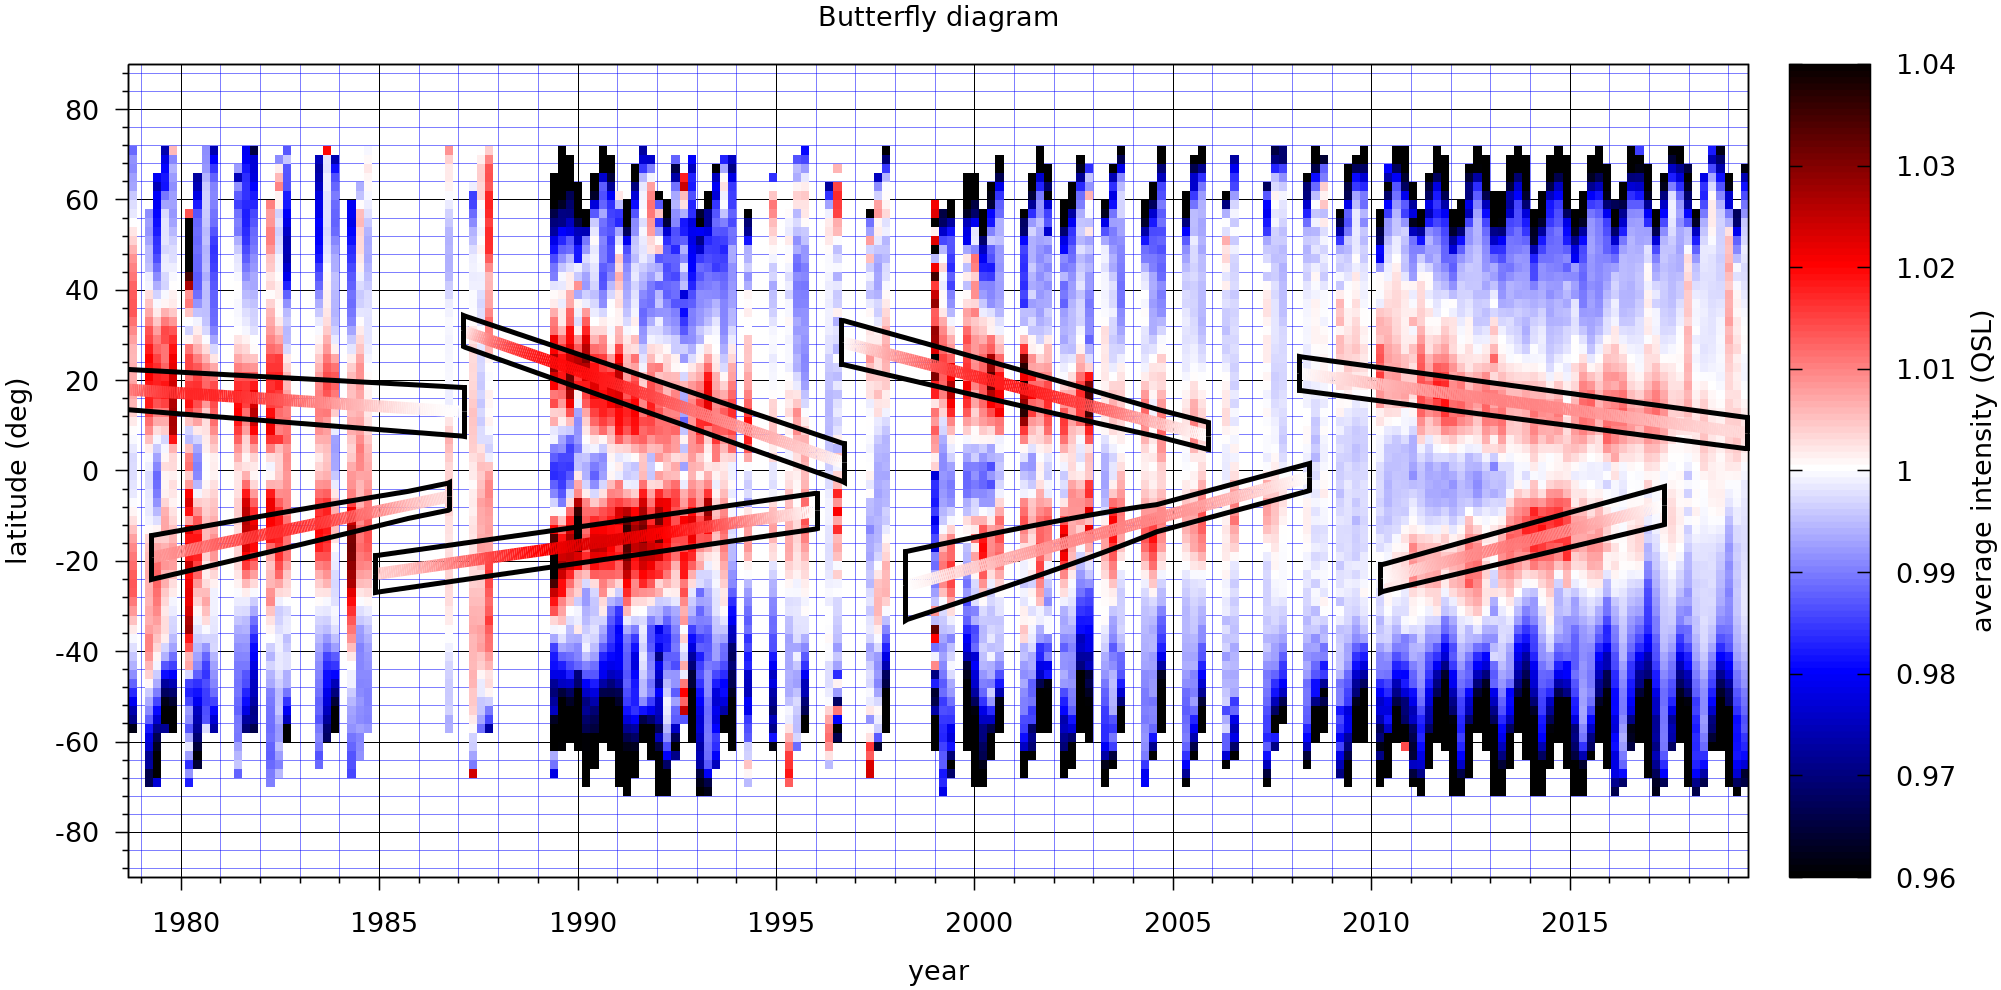
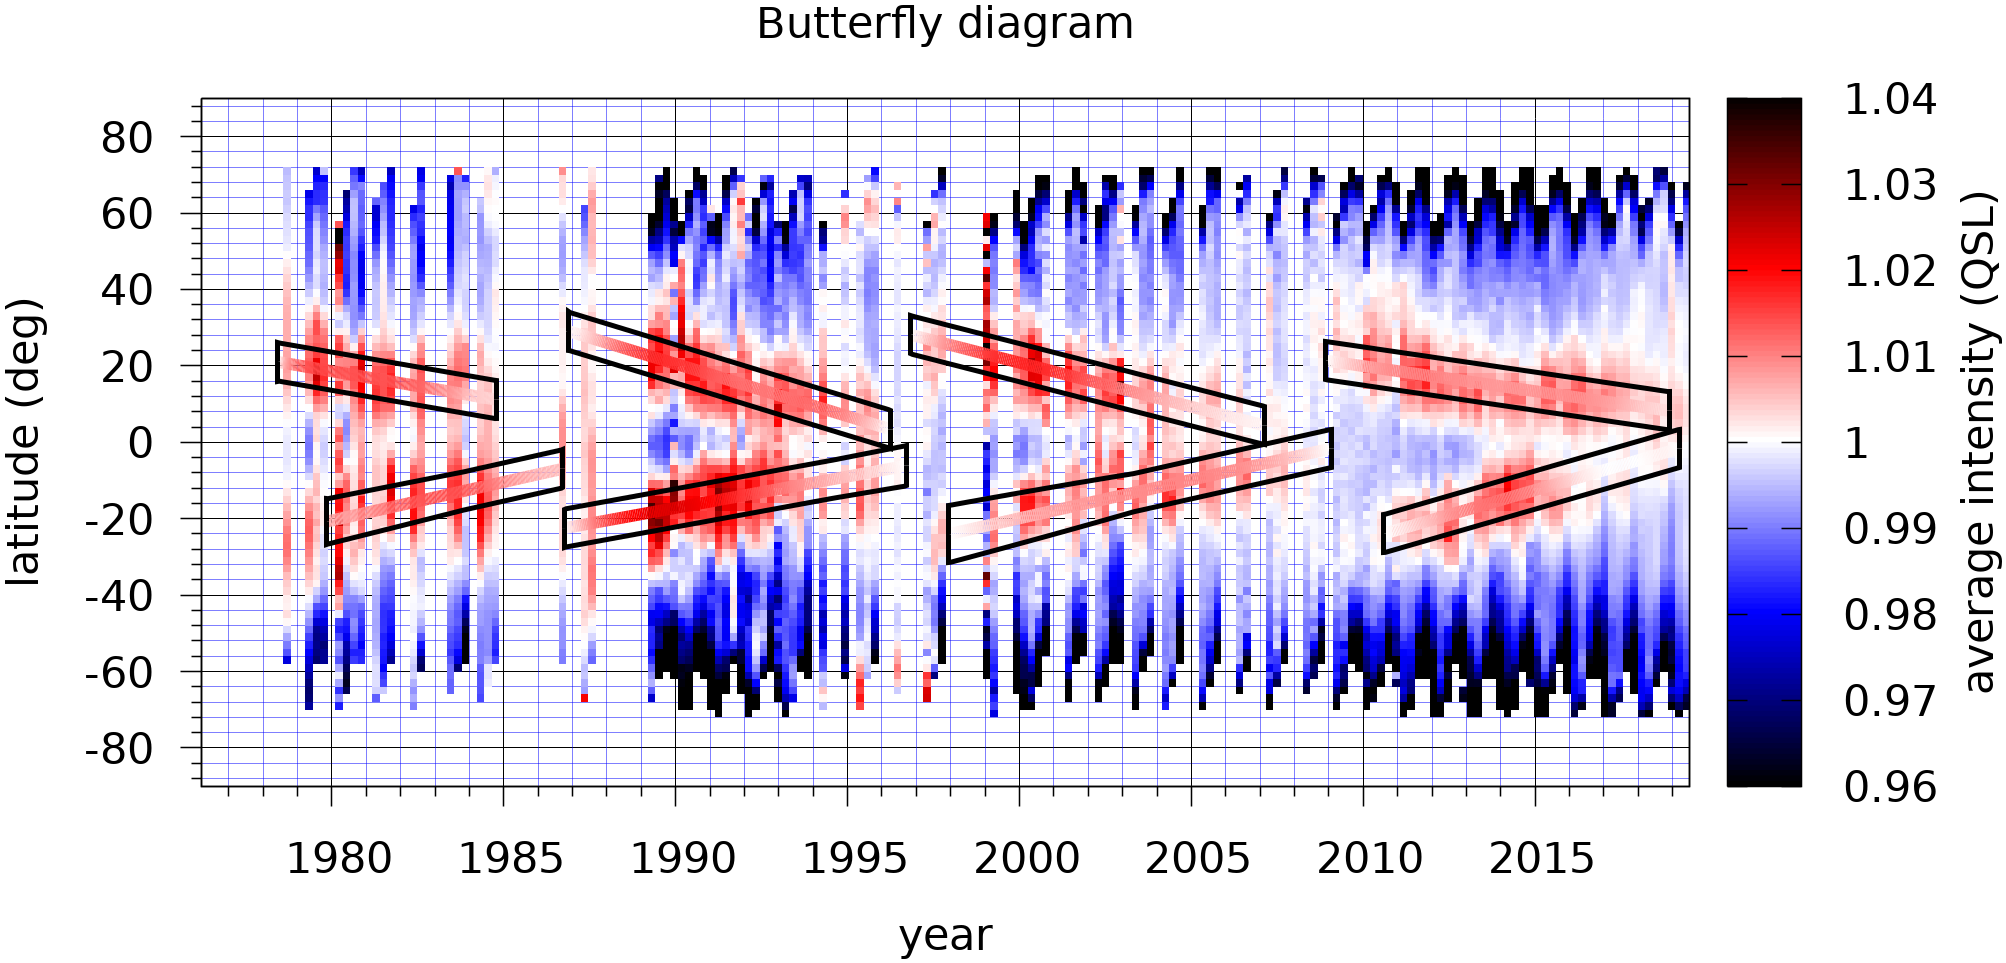
keep consistent

diff --git a/main_P1.tex b/main_P1.tex
@@ -302,7 +302,7 @@
   well-resolved
   data about the 
   %MJK should perhaps be written out, when used for the first time, same for 3D.
-  %FAG: OK done
+  %FAG:OK done
   two-dimensional (2D) 
   evolution of the solar surface magnetic 
   field, but observation of the three-dimensional (3D)
@@ -442,22 +442,22 @@
 
   \begin{figure}
   \centering
-  \includegraphics[trim=0cm 3cm 0cm 1.2cm,clip=True,width=\columnwidth]{nea1311582408.png}
-  \includegraphics[trim=0cm 0cm 0cm 1.2cm,clip=True,width=\columnwidth]{nea1467696874.png}
+  \includegraphics[width=\columnwidth]{nea_box.png}
   \begin{picture}(0,0)(0,0)
-    \put(-130,411){\begin{large}{\sf\bf{(a)}}\end{large}}
-    \put(-130,213){\begin{large}{\sf\bf{(b)}}\end{large}}
+    \put(-130,620){\begin{large}\sf\bf{(a)}\end{large}}
+    \put(-130,417){\begin{large}\sf\bf{(b)}\end{large}}
+    \put(-130,213){\begin{large}\sf\bf{(c)}\end{large}}
   \end{picture}
   \caption{
-    Typical Mets\"ahovi solar observations on $\SI{37}{GHz}$ {\bf(a)}
-    25.07.2011 and {\bf(b)} 05.07.2016.
-    Prior to May 2015 the observation beam scans along the equator, with
-    samples mapped onto a rectangular grid.
-    Since June 2015 a more accurate fit to the beam path was used, scanning 
-    horizontally.
-    For the intensity color map each pixel is mapped to the nearest observed
-    sample.
-    This is an original uncalibrated map.
+    Typical Mets\"ahovi solar observations on $\SI{37}{GHz}$ {\bf(a)} 25.07.2011 and {\bf(b)} 05.07.2016. Prior to May 
+    2015 the observation beam scans along the equator, with samples mapped onto a rectangular grid. Since June 2015 a 
+    more accurate fit to the beam path was used, scanning horizontally. For the intensity color map each pixel is mapped 
+    to the nearest observed sample. This is an original uncalibrated map. {\bf(c)} Closeup of the 05.07.2016 map which 
+    illustrates circle fitting.
+    %target set of points used for fitting the circle of the solar limb. White dots are normal 
+    %observational samples, while the blue dots are the samples used for the fitting. Based on sample intensity, the 
+    %radial distance from the center of disk, for each blue dot, is corrected based on sample intensity. The resulting 
+    %target set is shown with green dots.
     %Maps that originate May on 2015 or earlier have
     %sweeps along the equator. Samples are assumed on a rectan-
     %gular grid. Typical Metsähovi solar observation on 37 GHz.
@@ -545,14 +545,12 @@
   %Each sample observation yields an intensity map with coordinates right 
   Each observation scan yields an intensity map with coordinates right 
   ascension, $\RA$, and declination, $\Dec$.
-  Each scan, denoted $S$ and spanning a couple of minutes, comprises a set of
+  Each scan, denoted $S$ and spanning a couple of minutes, comprises a set of beam-size specimens. For $s_i \in S$:
   %FAG: trying to disembiguate use of 'sample'
-  %beam samples, $s_i \in S$
-  beam-size specimens, $s_i \in S$
   \eqnl{radio_sample}{
   s_i &=& 
-  \left( t_i, \dR_i, \dD_i, u_i \right) %\\ \nonumber
-  %&=& \left( t(s_i), \delta \mathrm{RA}(s_i), \delta \mathrm{dec}(s_i), u(s_i) \right) \text{,}
+  \left( t_i, \dR_i, \dD_i, u_i \right) \\ %\\ \nonumber
+  &=& \left( t(s_i),\delta \mathrm{RA}(s_i), \delta \mathrm{dec}(s_i), u(s_i) \right) \text{,}
   }
   where $t_i=t(s_i)$ is the time at which the intensity $u_i=u(s_i)$ is
   observed and 
@@ -638,7 +636,7 @@
   %FAG: reform
   %We then solve the real roots of $P^{\prime\prime}(u)$, to obtain 
   %\eqnl{scurve-roots}{
-  %u_1 < ... < u_{n-2} \quad \text{, for which} \quad P^{\prime\prime}(u_j) = 0 \text{.}
+  %u_1 < ... < u_{n-2} \quad \text{, for which} \quad P^{\prime\prime}(u_j) = 0\text{.}
   %}
   We then solve the real roots of $P^{\prime\prime}(u)$, to obtain 
   $u_1 < ... < u_{n-2}$, for which $P^{\prime\prime}(u_j) = 0$.
@@ -659,7 +657,7 @@
   i_1 = \floor{\frac{i_0 + 1 + 1}{3} + 0.5} \quad \text{and} \quad
   i_2 = \floor{\frac{i_0 + |S|}{2} + 0.5} \text{.}
   }
-  The intensity $w(i_1)$ then represents the background sky and $w(i_2)$ QSL.
+  The intensity $w(i_1)$then represents the background sky and $w(i_2)$ QSL.
   %FAG: reworded
   %We then redo the polynomial fitting only for those samples which have intensity in the dynamic range of disk boundary, $10 .. 90 \%$ of QSL.
   We then apply the polynomial fitting only for those specimens within the
@@ -704,9 +702,9 @@
   &i_2^{(1)}& = \floor{\frac{i_0^{(1)} + |S|}{2} + 0.5} \text{.}
   }
   %FAG: introduce $v$
-  %We can now calibrate the intensity using $w(i_1^{(1)})$ for the background and $w(i_2^{(1)})$ for QSL:
+  %We can now calibrate the intensity using $w(i_1^{(1)})$ for the background and $w(i_2^{(1)})$for QSL:
   We can now calibrate the normalised intensity, $v(s)$,
-  using $w(i_1^{(1)})$ for the background and $w(i_2^{(1)})$ for QSL:
+  using $w(i_1^{(1)})$ for the background and $w(i_2^{(1)})$for QSL:
   \eqnl{scurve-calibration}{
   s \in S \implies v(s) = \frac{u(s) - w(i_1^{(1)})}{w(i_2^{(1)}) - w(i_1^{(1)})} \text{.}
   }
@@ -793,7 +791,7 @@
   To compare these calibration methods, we arbitrarily choose an interval which contains $n$ solar maps within a 
   reasonable time span $[\s{t}{min},\s{t}{max}]$. We process all these maps using each method $j$, and produce a list of 
   trackable radio features $F_j$. Due to differences in the operation of each calibration method, we do not expect the 
-  contents of $F_j$ to be identical for each $j$. Nevertheless, we can pick $m$ features which visually appear to be in 
+  contents of $F_j$ to be identical for each $j$. Nevertheless, we can pick $m$features which visually appear to be in 
   the same location in all $F_j$.
   
   Arbitrary selected active regions $\left\{ \right\}_{k=1}^{5}$ are expected to be detected on maps produced in each of 
@@ -812,17 +810,17 @@
 \subsection{Heliographic coordinates from radio data}
 
 %A particular radio data sample $s_i$ contains time $t_i$, relative position on the sky $(\delta \mathrm{RA}_i, \delta 
-%\mathrm{dec}_i$), and measured intensity $u_i$ in arbitrary linear units. For convenience, we use two equivalent 
+%\mathrm{dec}_i$), and measured intensity $u_i$in arbitrary linear units. For convenience, we use two equivalent 
 %conventions for sample notation:
 %
 %%MJK Introducing line break to fit the equations on a single line
 %%\eqnl{radio_sample}{
-%%s_i = \left( t_i, \delta \mathrm{RA}_i, \delta \mathrm{dec}_i, u_i \right) = \left( t(s_i), \delta \mathrm{RA}(s_i), \delta \mathrm{dec}(s_i), u(s_i) \right) \text{.}
+%%s_i = \left( t_i, \delta \mathrm{RA}_i, \delta \mathrm{dec}_i, u_i \right) = \left( t(s_i),\delta \mathrm{RA}(s_i), \delta \mathrm{dec}(s_i), u(s_i) \right) \text{.}
 %%}
 %\eqnl{radio_sample}{
 %s_i &=& 
 %\left( t_i, \delta \mathrm{RA}_i, \delta \mathrm{dec}_i, u_i \right) \\ \nonumber
-%&=& \left( t(s_i), \delta \mathrm{RA}(s_i), \delta \mathrm{dec}(s_i), u(s_i) \right) \text{.}
+%&=& \left( t(s_i),\delta \mathrm{RA}(s_i), \delta \mathrm{dec}(s_i), u(s_i) \right) \text{.}
 %}
 %%Observation is done at time $t_i$ and from geographic location 
 %%$(\phi_{\earth}, \lambda_{\earth}) = \left( +60.217797339^{\circ}, +24.393084663 \right)$, which is 
@@ -891,7 +889,7 @@ in order to obtain Carrington coordinates:
 }
 where $\left( \mathrm{RA}^{\astrosun}(t), \mathrm{dec}^{\astrosun}(t) \right)$ is the equatorial position of the Sun. This quantity, as well as $r^{\astrosun}$, are calculated using the same astronomical model $A$:
 %MJK I would modify the presentation here.
-%The equatorial position of the Sun, $\left( \mathrm{RA}^{\astrosun}(t), \mathrm{dec}^{\astrosun}(t) \right)$, needed in Equation \ref{carrington_coordinates} as well as the visual size $r^{\astrosun}$ needed in Equation \ref{calibration} is calculated using the same astronomical model $A$:
+%The equatorial position of the Sun, $\left( \mathrm{RA}^{\astrosun}(t), \mathrm{dec}^{\astrosun}(t) \right)$,needed in Equation \ref{carrington_coordinates} as well as the visual size $r^{\astrosun}$needed in Equation \ref{calibration} is calculated using the same astronomical model $A$:
 \eqnl{astromodel}{
 \left( \mathrm{RA}^{\astrosun}, \mathrm{dec}^{\astrosun}, r^{\astrosun} \right) = \s{A}{pos} \left( \s{t}{mid}(S), \phi_{\earth}, \lambda_{\earth} \right) \text{.}
 }
@@ -944,9 +942,9 @@ domains for each parameter. Radians are a natural choice of units for $\theta, \
 either be calculated from our astronomical model or fitted to the data as a circle.
 
 
-The solar map is a collection of intensity values $\left\{ v_i \right\}_i$ sampled by the antenna. These are linearly scaled so that $1$ represents the Quiet Sun Level (QSL) and $0$ represents the background. Each intensity value 
+The solar map is a collection of intensity values $\left\{ v_i \right\}_i$sampled by the antenna. These are linearly scaled so that $1$ represents the Quiet Sun Level (QSL) and $0$ represents the background. Each intensity value 
 $v_i$ is accompanied with right ascension $\delta \mathrm{RA}_i$ and declination $\delta 
-\mathrm{dec}_i$ relative to the center of the solar disk, $\left( \mathrm{RA}_{\mathrm{sun}}(t_i), 
+\mathrm{dec}_i$relative to the center of the solar disk, $\left( \mathrm{RA}_{\mathrm{sun}}(t_i), 
 \mathrm{dec}_{\mathrm{sun}}(t_i) \right)$, at the time of observation, $t_i$.
 
 
